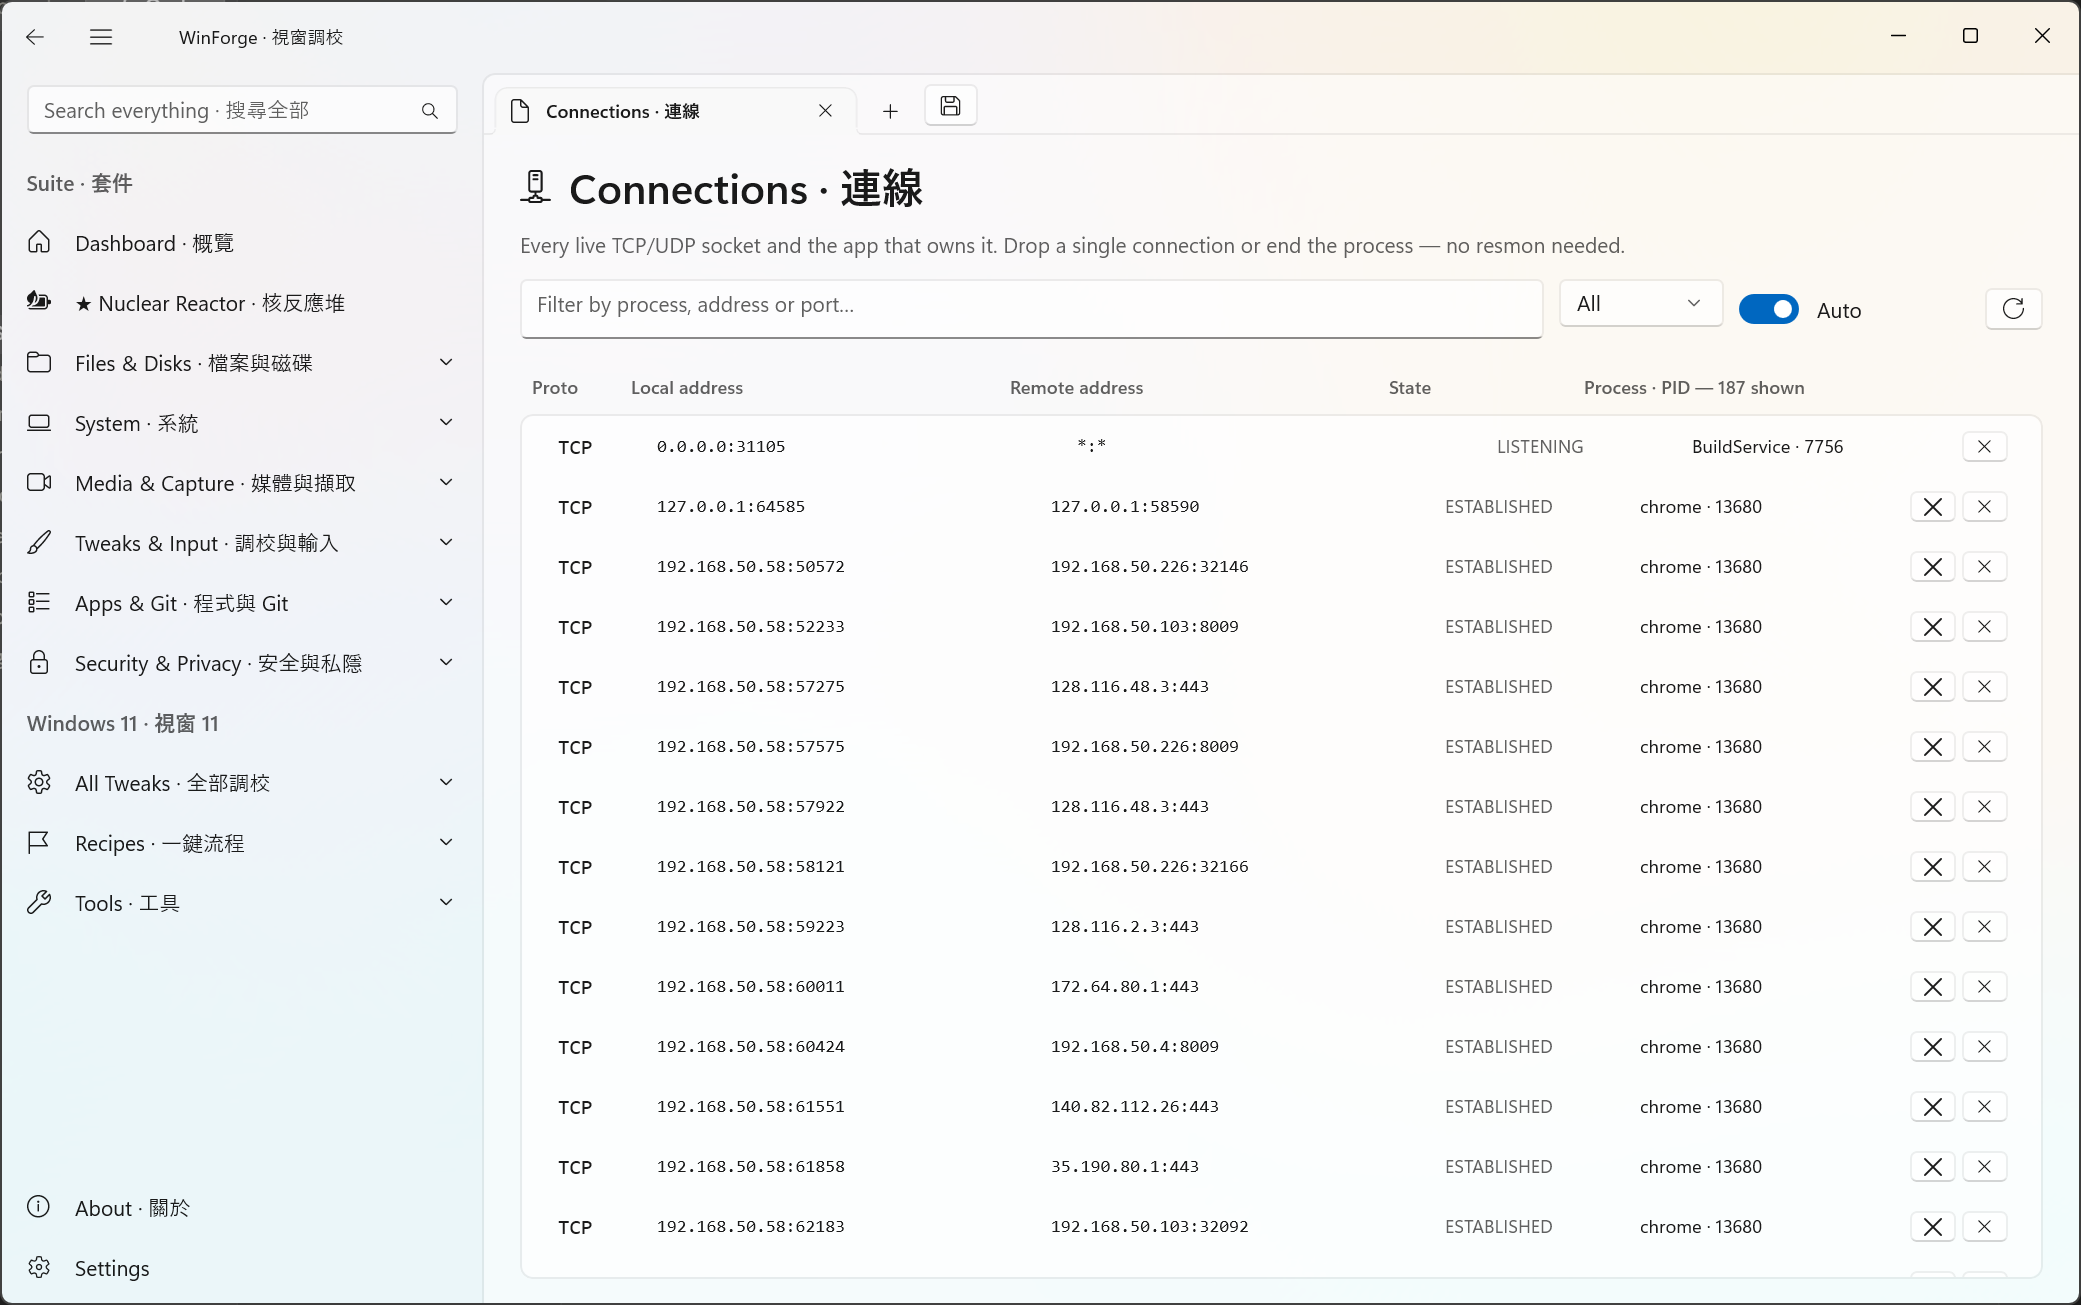
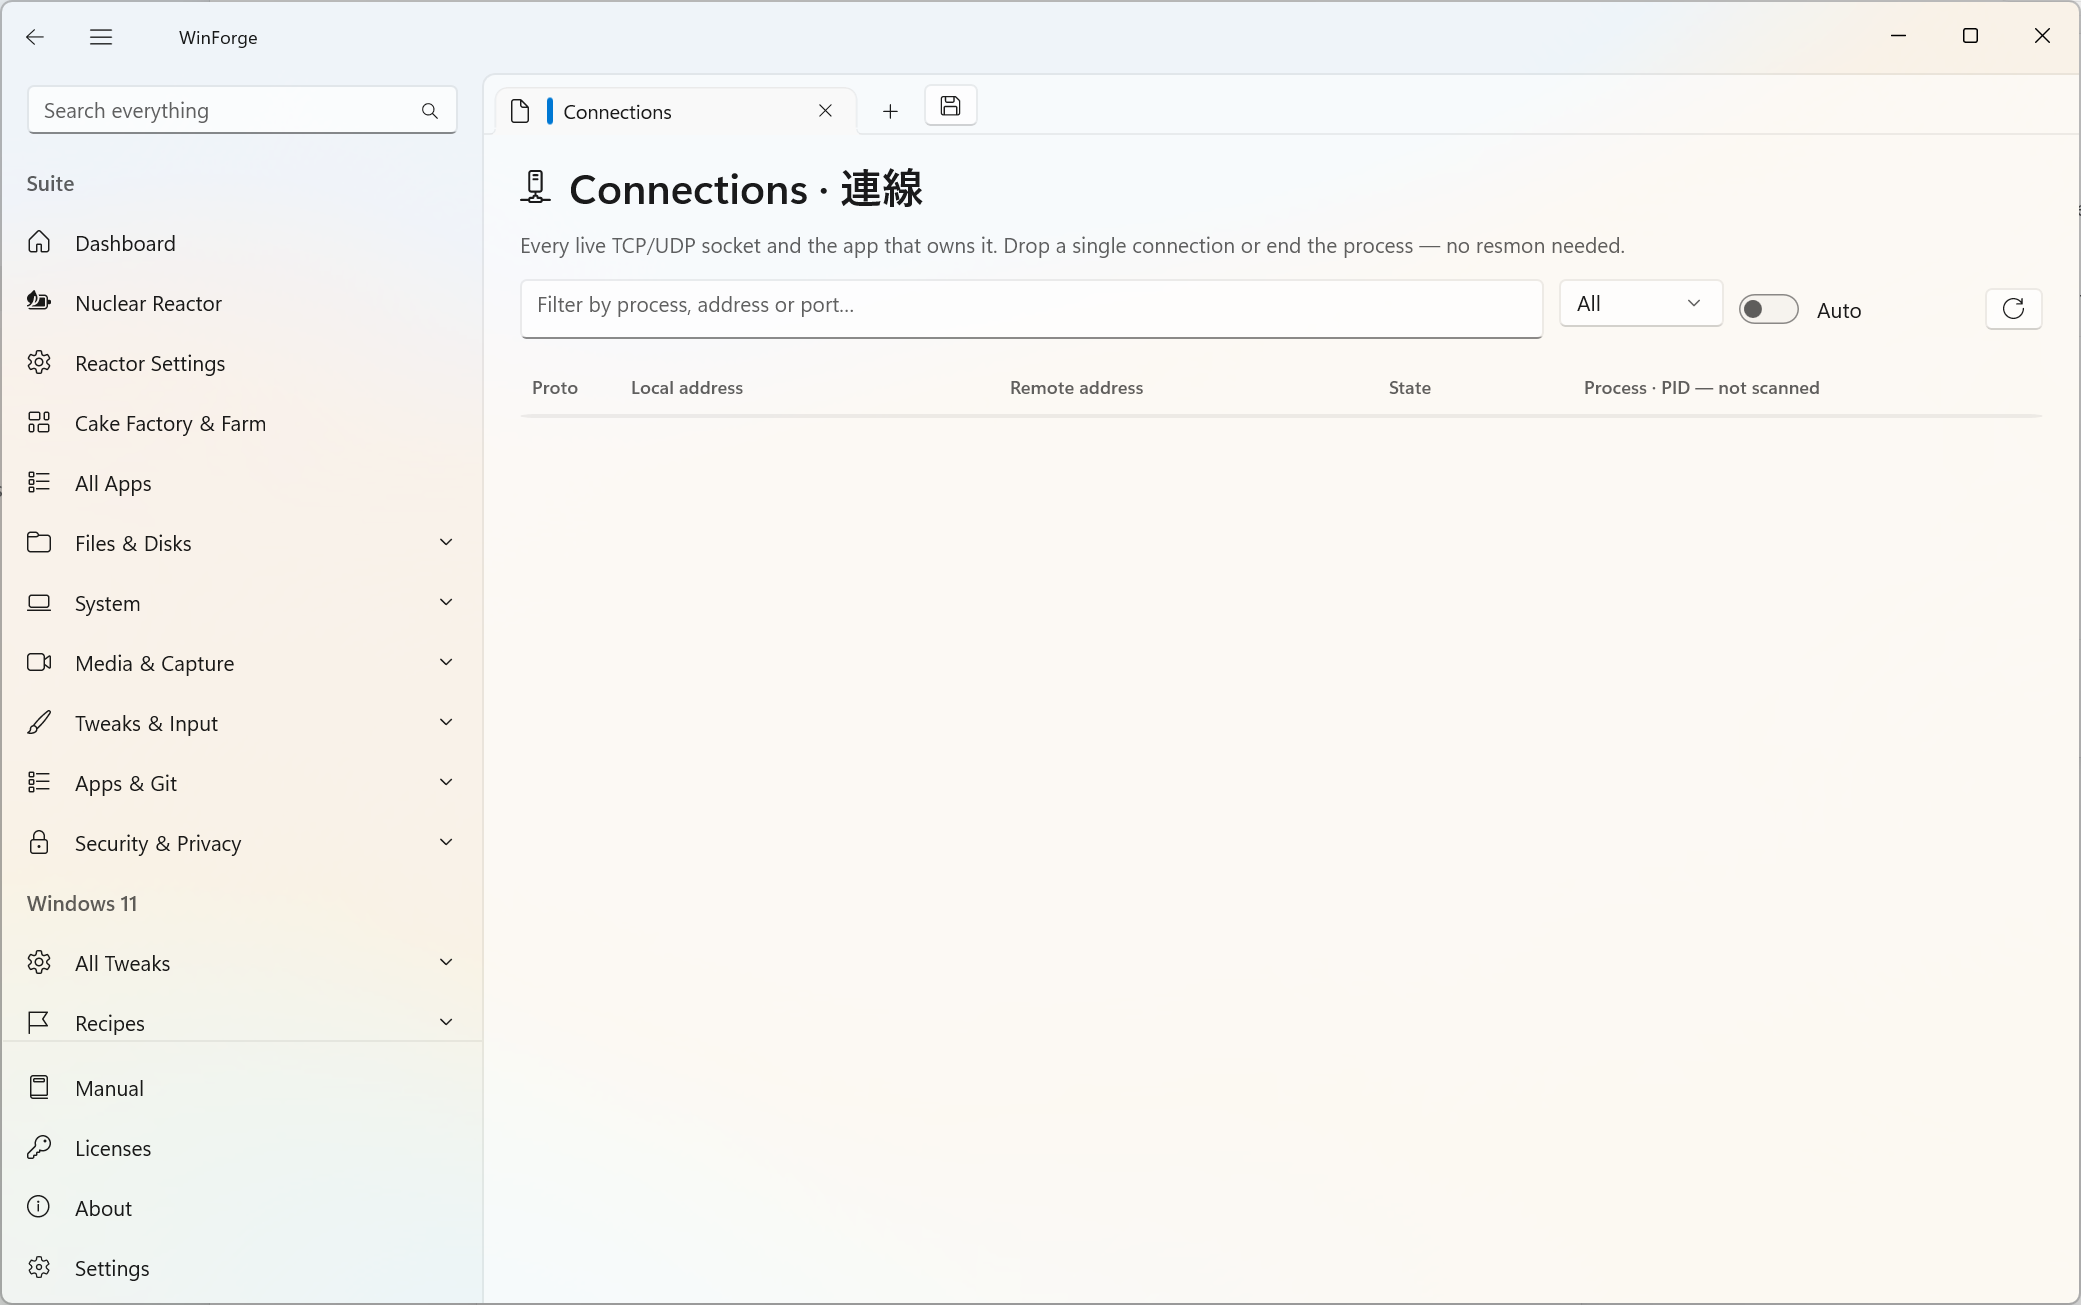
Redact Connections screenshot state
遮蔽連線截圖狀態

diff --git a/Pages/ConnectionsModule.xaml b/Pages/ConnectionsModule.xaml
@@ -32,7 +32,7 @@
             </Grid.ColumnDefinitions>
             <TextBox x:Name="FilterBox" Grid.Column="0" TextChanged="Filter_Changed" />
             <ComboBox x:Name="ProtoBox" Grid.Column="1" SelectedIndex="0" SelectionChanged="Filter_Changed" MinWidth="110" />
-            <ToggleSwitch x:Name="AutoSwitch" Grid.Column="2" IsOn="True" Toggled="Auto_Toggled" VerticalAlignment="Center" />
+            <ToggleSwitch x:Name="AutoSwitch" Grid.Column="2" IsOn="False" Toggled="Auto_Toggled" VerticalAlignment="Center" />
             <Button x:Name="RefreshBtn" Grid.Column="3" Click="Refresh_Click">
                 <FontIcon Glyph="&#xE72C;" FontSize="14" />
             </Button>

diff --git a/Pages/ConnectionsModule.xaml.cs b/Pages/ConnectionsModule.xaml.cs
@@ -42,6 +42,7 @@ public sealed partial class ConnectionsModule : Page
 
     private readonly DispatcherTimer _timer = new() { Interval = TimeSpan.FromSeconds(2) };
     private readonly ObservableCollection<ConnView> _rows = new();
+    private bool _rendering;
     private string _filter = "";
 
     public ConnectionsModule()
@@ -50,7 +51,7 @@ public sealed partial class ConnectionsModule : Page
         List.ItemsSource = _rows;
         _timer.Tick += (_, _) => Refresh();
         Loc.I.LanguageChanged += (_, _) => Render();
-        Loaded += (_, _) => { Render(); Refresh(); if (AutoSwitch.IsOn) _timer.Start(); };
+        Loaded += (_, _) => Render();
         Unloaded += (_, _) => _timer.Stop();
     }
 
@@ -58,6 +59,7 @@ public sealed partial class ConnectionsModule : Page
 
     private void Render()
     {
+        _rendering = true;
         HeaderTitle.Text = "Connections · 連線";
         HeaderBlurb.Text = P("Every live TCP/UDP socket and the app that owns it. Drop a single connection or end the process — no resmon needed.",
             "每一條即時 TCP/UDP 連線同擁有佢嘅程式。可以單獨切斷一條連線或者結束程序 — 唔使開資源監視器。");
@@ -68,7 +70,9 @@ public sealed partial class ConnectionsModule : Page
         ColLocal.Text = P("Local address", "本機位址");
         ColRemote.Text = P("Remote address", "遠端位址");
         ColState.Text = P("State", "狀態");
-        ColProc.Text = P("Process · PID", "程序 · PID");
+        ColProc.Text = _rows.Count == 0
+            ? P("Process · PID — not scanned", "程序 · PID — 未掃描")
+            : P($"Process · PID — {_rows.Count} shown", $"程序 · PID — 顯示 {_rows.Count} 條");
 
         int sel = ProtoBox.SelectedIndex < 0 ? 0 : ProtoBox.SelectedIndex;
         ProtoBox.Items.Clear();
@@ -76,18 +80,28 @@ public sealed partial class ConnectionsModule : Page
         ProtoBox.Items.Add("TCP");
         ProtoBox.Items.Add("UDP");
         ProtoBox.SelectedIndex = sel;
+        _rendering = false;
     }
 
     private void Auto_Toggled(object sender, RoutedEventArgs e)
     {
         if (!IsLoaded) return;
-        if (AutoSwitch.IsOn) _timer.Start(); else _timer.Stop();
+        if (AutoSwitch.IsOn)
+        {
+            Refresh();
+            _timer.Start();
+        }
+        else
+        {
+            _timer.Stop();
+        }
     }
 
     private void Refresh_Click(object sender, RoutedEventArgs e) => Refresh();
 
     private void Filter_Changed(object sender, object e)
     {
+        if (_rendering) return;
         _filter = (FilterBox.Text ?? "").Trim();
         if (IsLoaded) Refresh();
     }